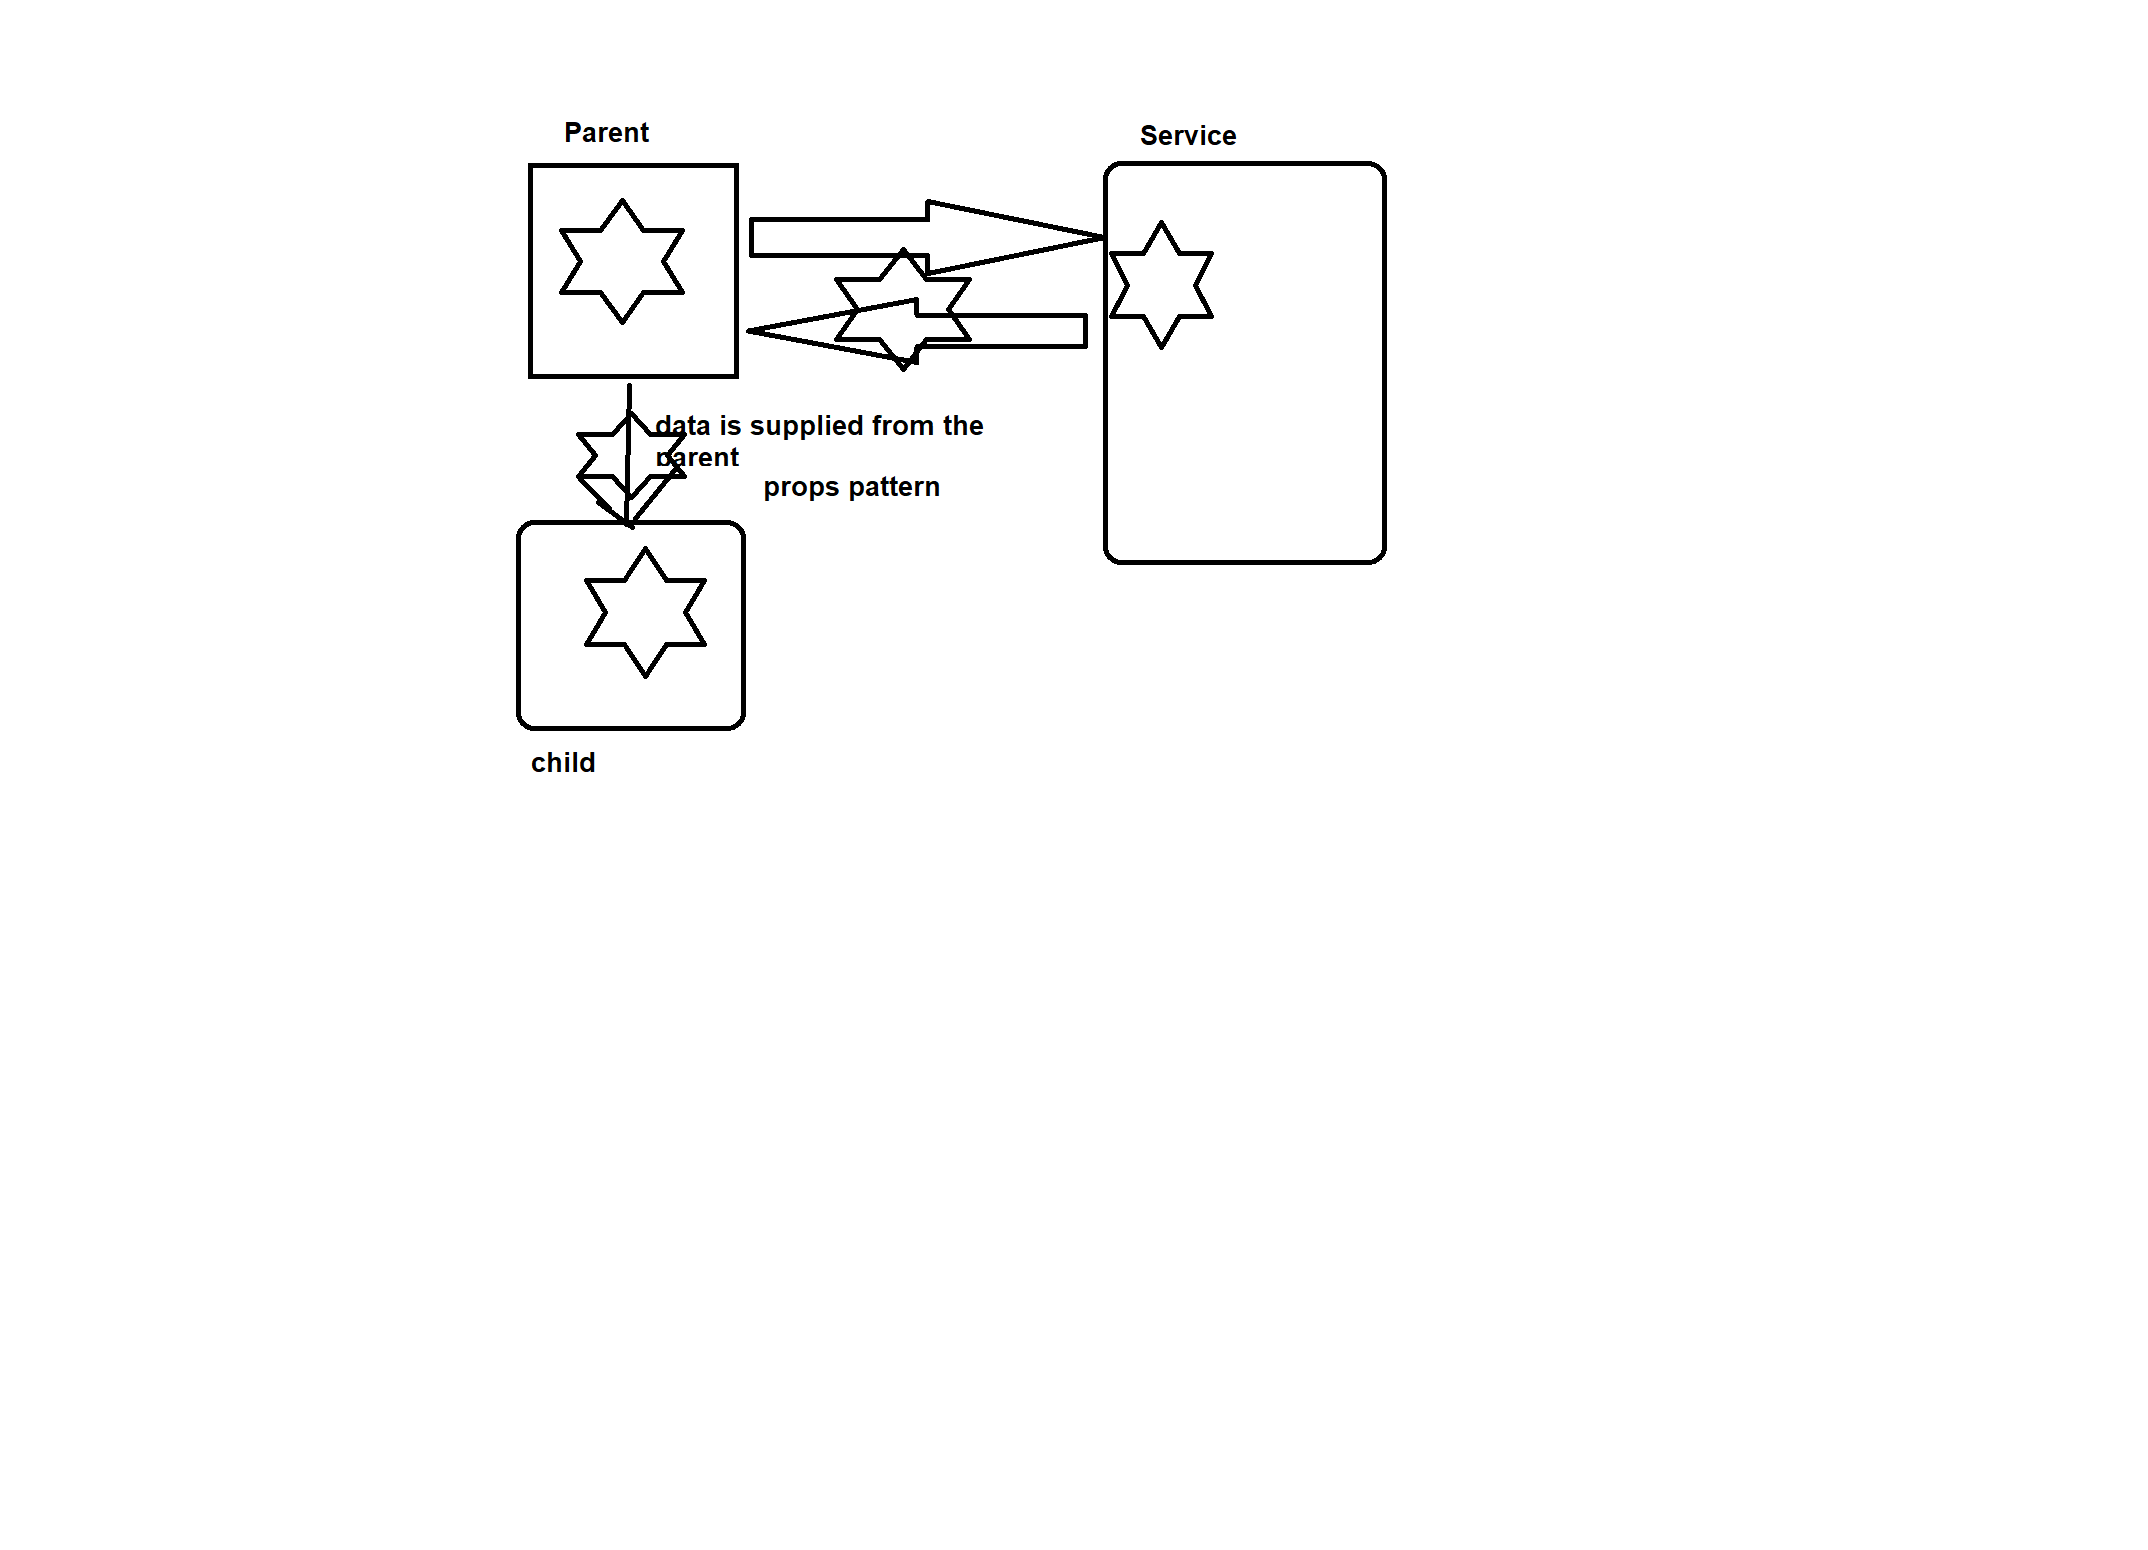
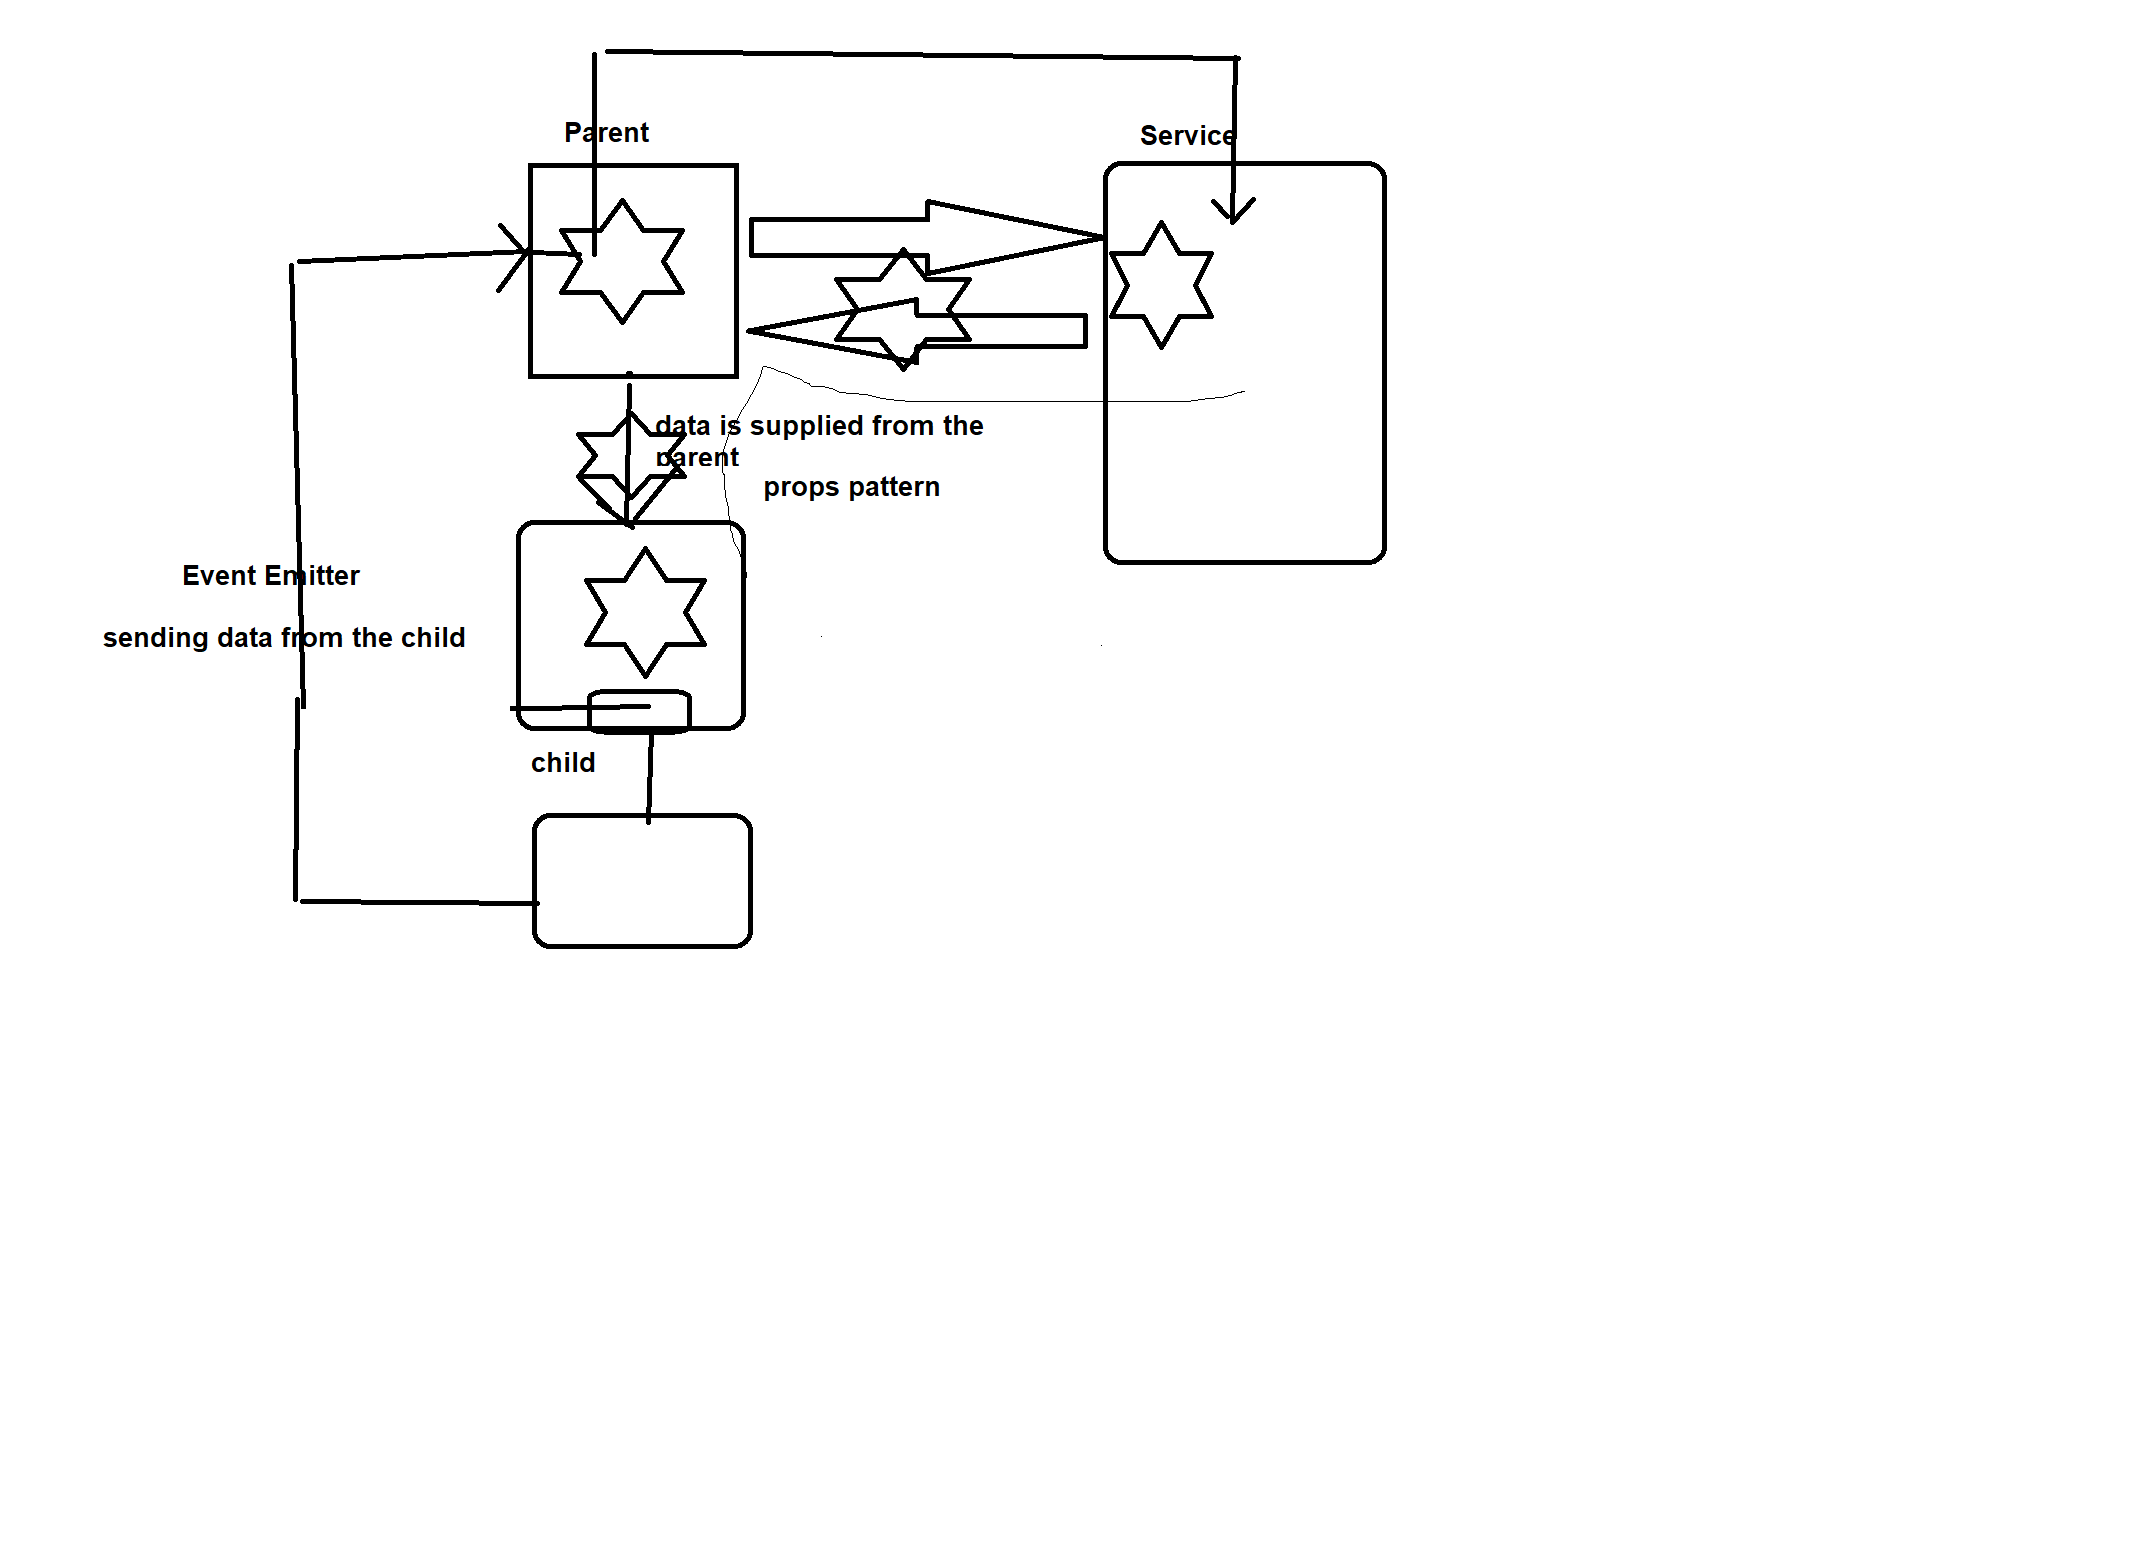
css dynamic,props,event emitter

diff --git a/httpapps/src/app/users/userslist.component.html b/httpapps/src/app/users/userslist.component.html
@@ -1,15 +1,24 @@
-<ul>
+<div *ngIf="loading; else notloading  ">
+  <h2>{{status}}</h2>
+</div>
+<ng-template #notloading>
+  <ul>
     <h1>{{title}}</h1>
-    <!-- <li *ngFor="let user of users |async">
-        <span>{{user.id}} -
-             {{user.name | titlecase}} -
-            {{user.date | date:'dd/MM/yyyy' }} {{user.points | decimalFraction :3}}</span>
-    </li> -->
-      <li *ngFor="let user of users |async">
-        <span>{{user.name | titlecase}}</span>           
+    <li *ngFor="let user of users |async">
+      <span [class.selected]="user===selectedUser" (click)="onSelect(user)">{{user.name | titlecase}}</span>
     </li>
-</ul>
-<br>
+  </ul>
+  <br>
+  <!-- Task for you : break this code into a separate Component: -->
+  <!-- <app-selecteduser [selectedUser]="selectUser"></app-selecteduser> -->
+  <div *ngIf="selectedUser">
+    <h3>{{selectedUser.id}} details</h3>
+    <h4>Name : {{selectedUser.name | titlecase}}</h4>
+    <h4>Date : {{selectedUser.date | date}}</h4>
+    <h4>Points :{{selectedUser.points | decimalFraction}}</h4>
+  </div>
+</ng-template>
 <div>
-
+  <h3>User Form</h3>
+  <button (click)="sendUser()" class="btn btn-success">Submit</button>
 </div>

diff --git a/httpapps/src/app/users/userslist.component.ts b/httpapps/src/app/users/userslist.component.ts
@@ -1,4 +1,4 @@
-import { Component, OnInit, Input } from '@angular/core';
+import { Component, OnInit, Input, Output, EventEmitter } from '@angular/core';
 import { User } from './user.type';
 import { Observable } from 'rxjs'
 
@@ -12,10 +12,36 @@ export class UserslistComponent implements OnInit {
   @Input()
   users!: Observable<User[]>
   @Input()
-  title:string=''
+  title: string = ''
+  selectedUser!: User
+
+  @Input()
+  status!: string
+  @Input()
+  loading!: boolean
+
+  //Event Emitter Object
+  @Output()
+  onSendRequest = new EventEmitter<User>();
+
   constructor() { }
 
   ngOnInit(): void {
+  }
+  //Event Listener
+  onSelect(user: User) {
+    console.log(user)
+    this.selectedUser = user
+  }
+  //send data to the parent component
+  sendUser() {
+    let user: User = {
+      id: Math.random(),
+      name: 'userName' + Math.random(),
+      date: new Date(),
+      points: 9888.8777
+    }
+    this.onSendRequest.emit(user)
   }
 
 }

diff --git a/httpapps/src/app/users/users.component.ts b/httpapps/src/app/users/users.component.ts
@@ -17,6 +17,14 @@ export class UsersComponent implements OnInit {
 
   // users!:Array<User>
   users!: Observable<User[]>
+
+  loading: boolean = true;
+  status: string = "loading....."
+
+  user!: User
+
+  message: string = ""
+
   constructor(private userService: UsersService) { }
 
 
@@ -28,8 +36,23 @@ export class UsersComponent implements OnInit {
     //     this.users = users
     //   }
     // })
+    //todo: remove this once if you test the code
+    // setTimeout(() => {
+    //   this.users = this.userService.getUsers()
+    //   this.loading = !this.loading;
+    // }, 5000)
     this.users = this.userService.getUsers()
-
+    this.loading = !this.loading;
   }
-
+  getUser(user: User) {
+    console.log('Parent  ', user)
+    this.userService.save(user).subscribe({
+      next: user => {
+        this.message = 'successfully added'
+      },
+      error: err => {
+        console.log('User not added', err)
+      }
+    })
+  }
 }

diff --git a/httpapps/src/app/users/users.module.ts b/httpapps/src/app/users/users.module.ts
@@ -4,20 +4,23 @@ import { UsersComponent } from './users.component';
 import { HttpClientModule } from '@angular/common/http'
 import { UtilModule } from '../util/util.module';
 import { UserslistComponent } from './userslist.component';
+import { UsersformComponent } from './usersform.component';
 
 
 
 @NgModule({
   declarations: [
     UsersComponent,
-    UserslistComponent
+    UserslistComponent,
+    UsersformComponent
   ],
   imports: [
     CommonModule, HttpClientModule,UtilModule
   ],
   exports: [
     UsersComponent,
-    UserslistComponent
+    UserslistComponent,
+    UsersformComponent
   ]
 })
 export class UsersModule { }

diff --git a/httpapps/src/app/users/users.service.ts b/httpapps/src/app/users/users.service.ts
@@ -17,6 +17,13 @@ export class UsersService {
       catchError(this.handleError<User[]>('getUsers', [{ id: 0, name: 'test' }]))
     )
   }
+  save(user: User):Observable<User> {
+    console.log('user posted in sevice layer', user)
+    return this.http.post<User>(`${this.url}/users`, user).pipe(
+      catchError(this.handleError<User>('Save is Called'))
+    )
+  }
+
   //handle error Api
   private handleError<T>(operation = 'operation', result?: T) {
     //return function

diff --git a/httpapps/src/app/users/users.component.html b/httpapps/src/app/users/users.component.html
@@ -1,6 +1,12 @@
 <div class="container">
+    <h1>User Page</h1>
     <!-- Props pattern lefside is propName and right side is instance variable Name 
         any object can be passed as prop
     -->
-   <app-userslist [users]="users" title="User Details" ></app-userslist>
+   <app-userslist [users]="users" 
+    title="User Details" 
+    [loading]="loading" 
+    [status]="status"  (onSendRequest)="getUser($event)"  ></app-userslist>
+    <h4>{{message}}</h4>
+
 </div>

diff --git a/httpapps/src/app/users/usersform.component.ts b/httpapps/src/app/users/usersform.component.ts
@@ -1,0 +1,16 @@
+import { Component, OnInit } from '@angular/core';
+
+@Component({
+  selector: 'app-usersform',
+  templateUrl: './usersform.component.html',
+  styles: [
+  ]
+})
+export class UsersformComponent implements OnInit {
+
+  constructor() { }
+
+  ngOnInit(): void {
+  }
+
+}

diff --git a/httpapps/src/styles.css b/httpapps/src/styles.css
@@ -10,3 +10,7 @@ body {
     padding: 5rem;
     background-color: azure;
 }
+.selected {
+    background-color: black;
+    color: white;
+}

diff --git a/httpapps/src/app/app.component.html b/httpapps/src/app/app.component.html
@@ -1,4 +1,3 @@
 <div>
-  <h1>Users App - HTTP</h1>
   <app-users></app-users>
 </div>

diff --git a/httpapps/src/app/users/usersform.component.html b/httpapps/src/app/users/usersform.component.html
@@ -1,0 +1,1 @@
+<p>usersform works!</p>
